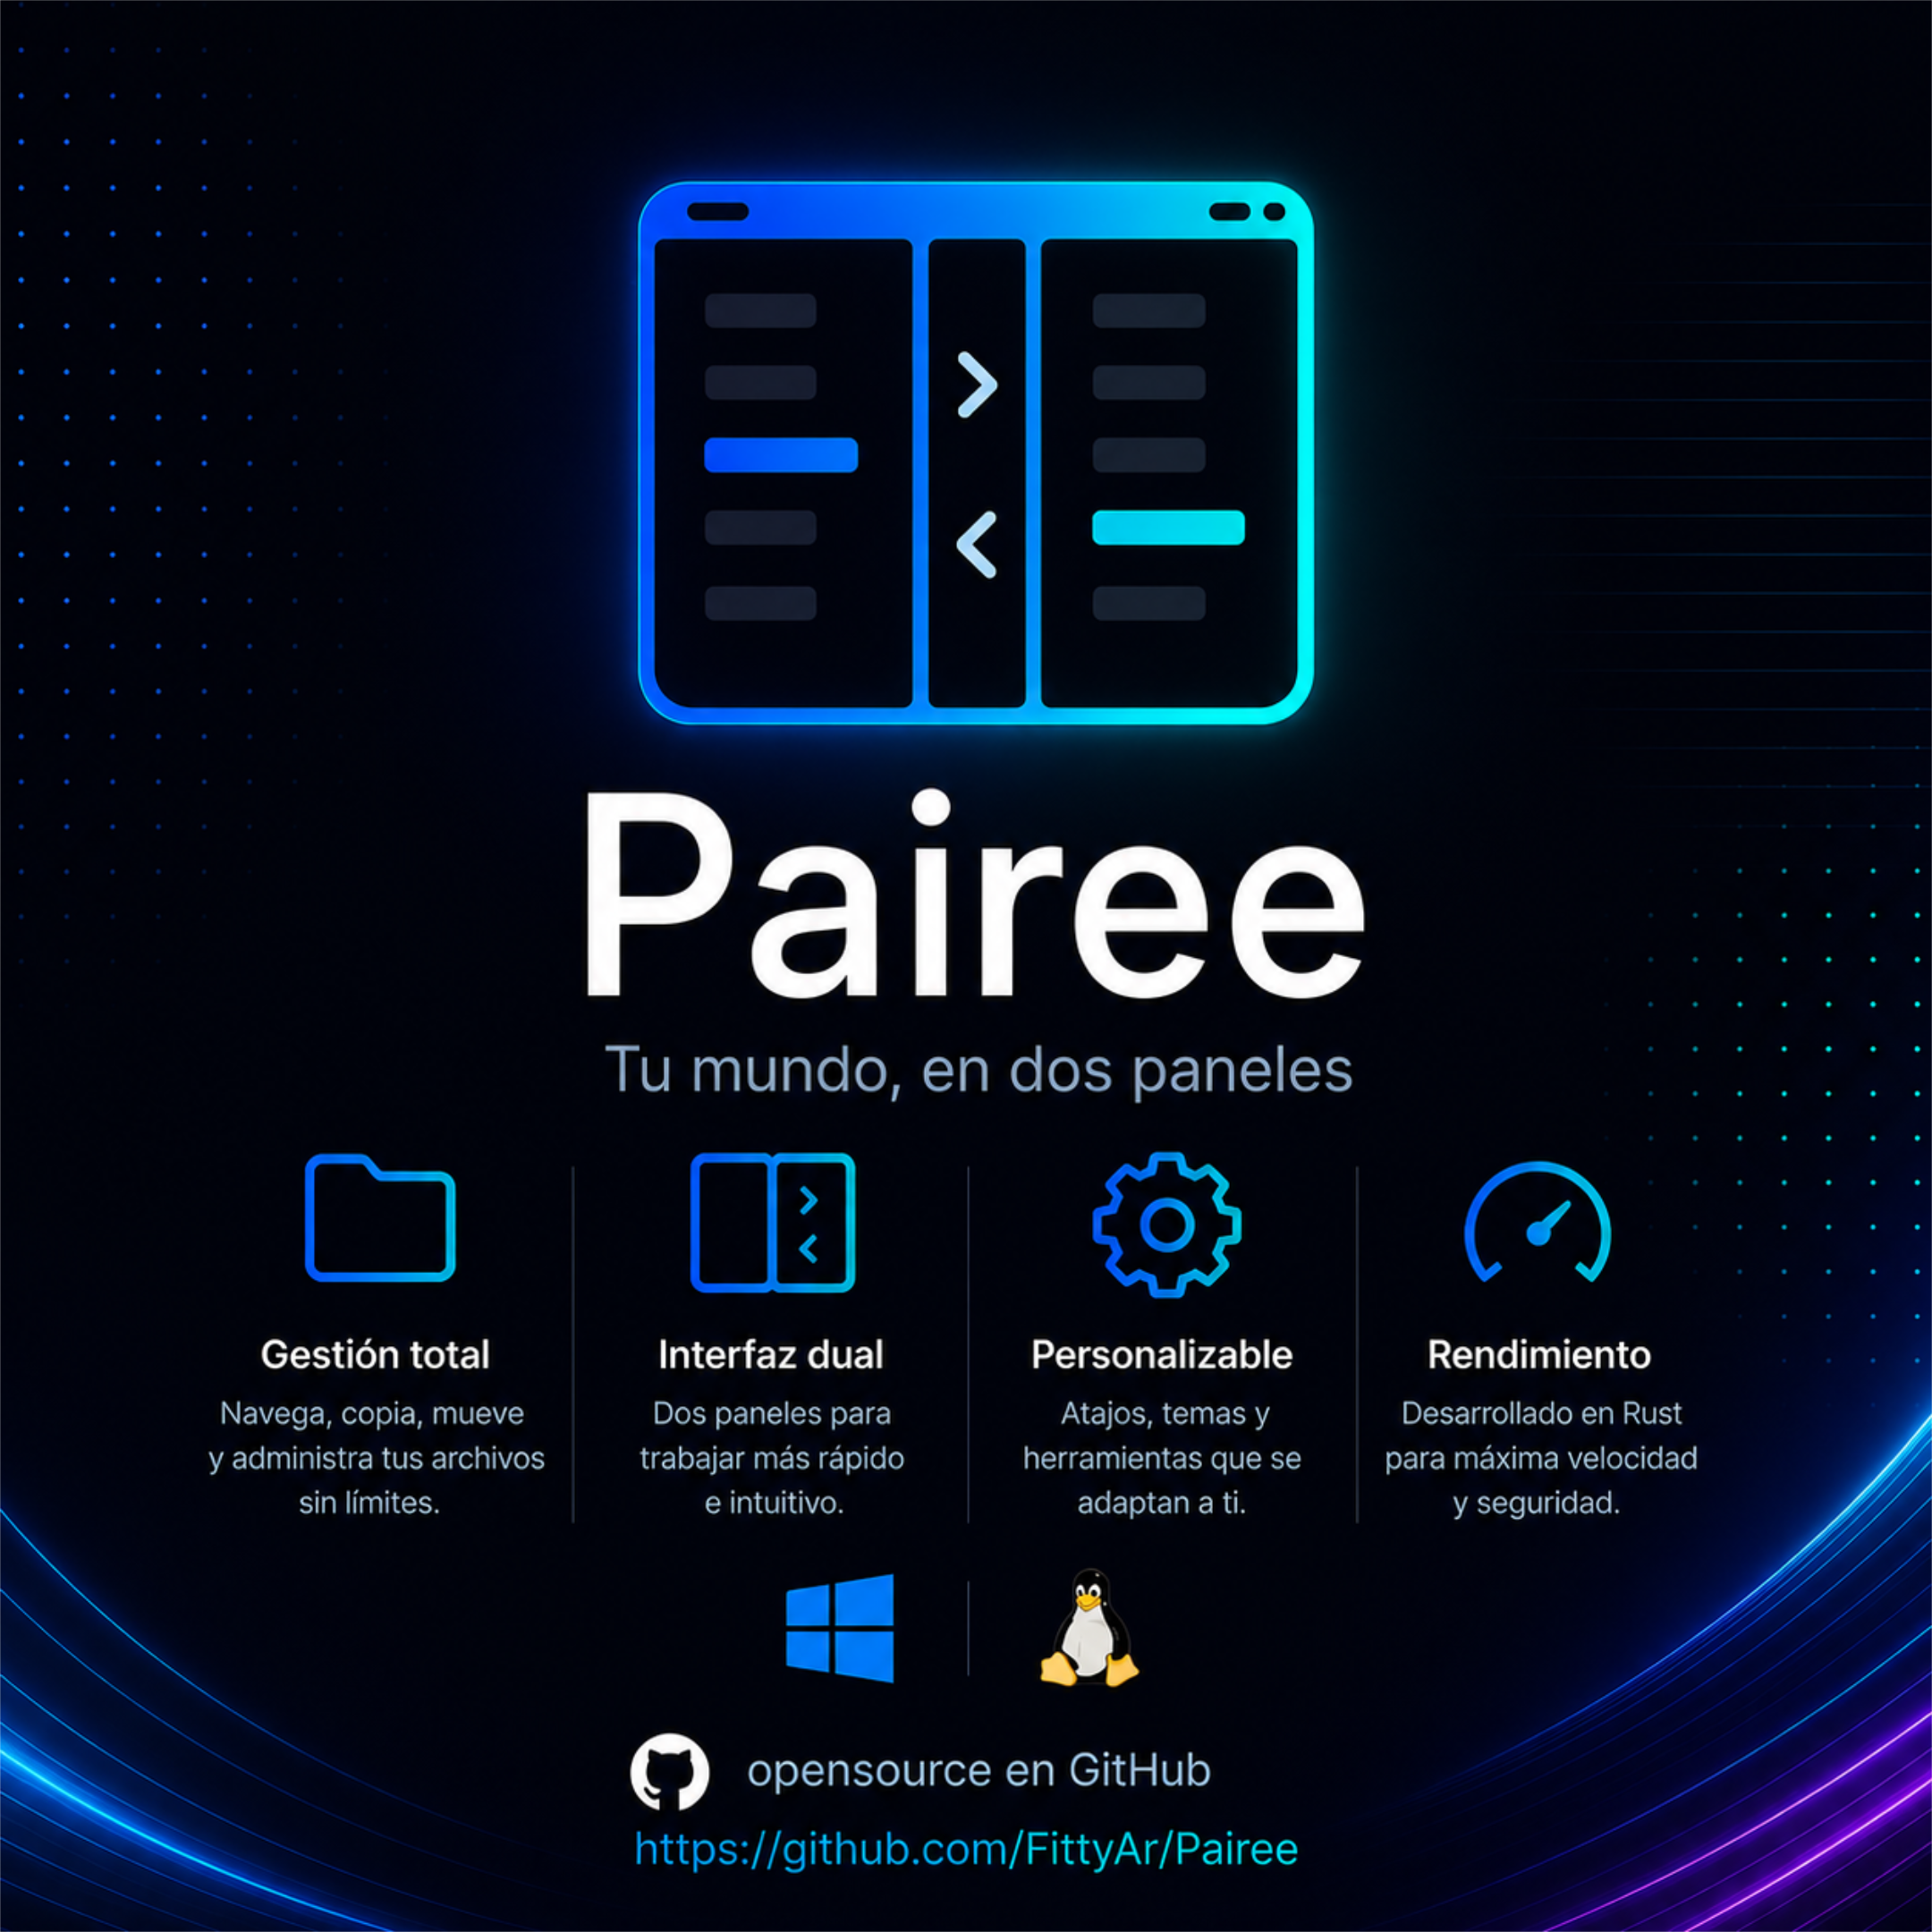
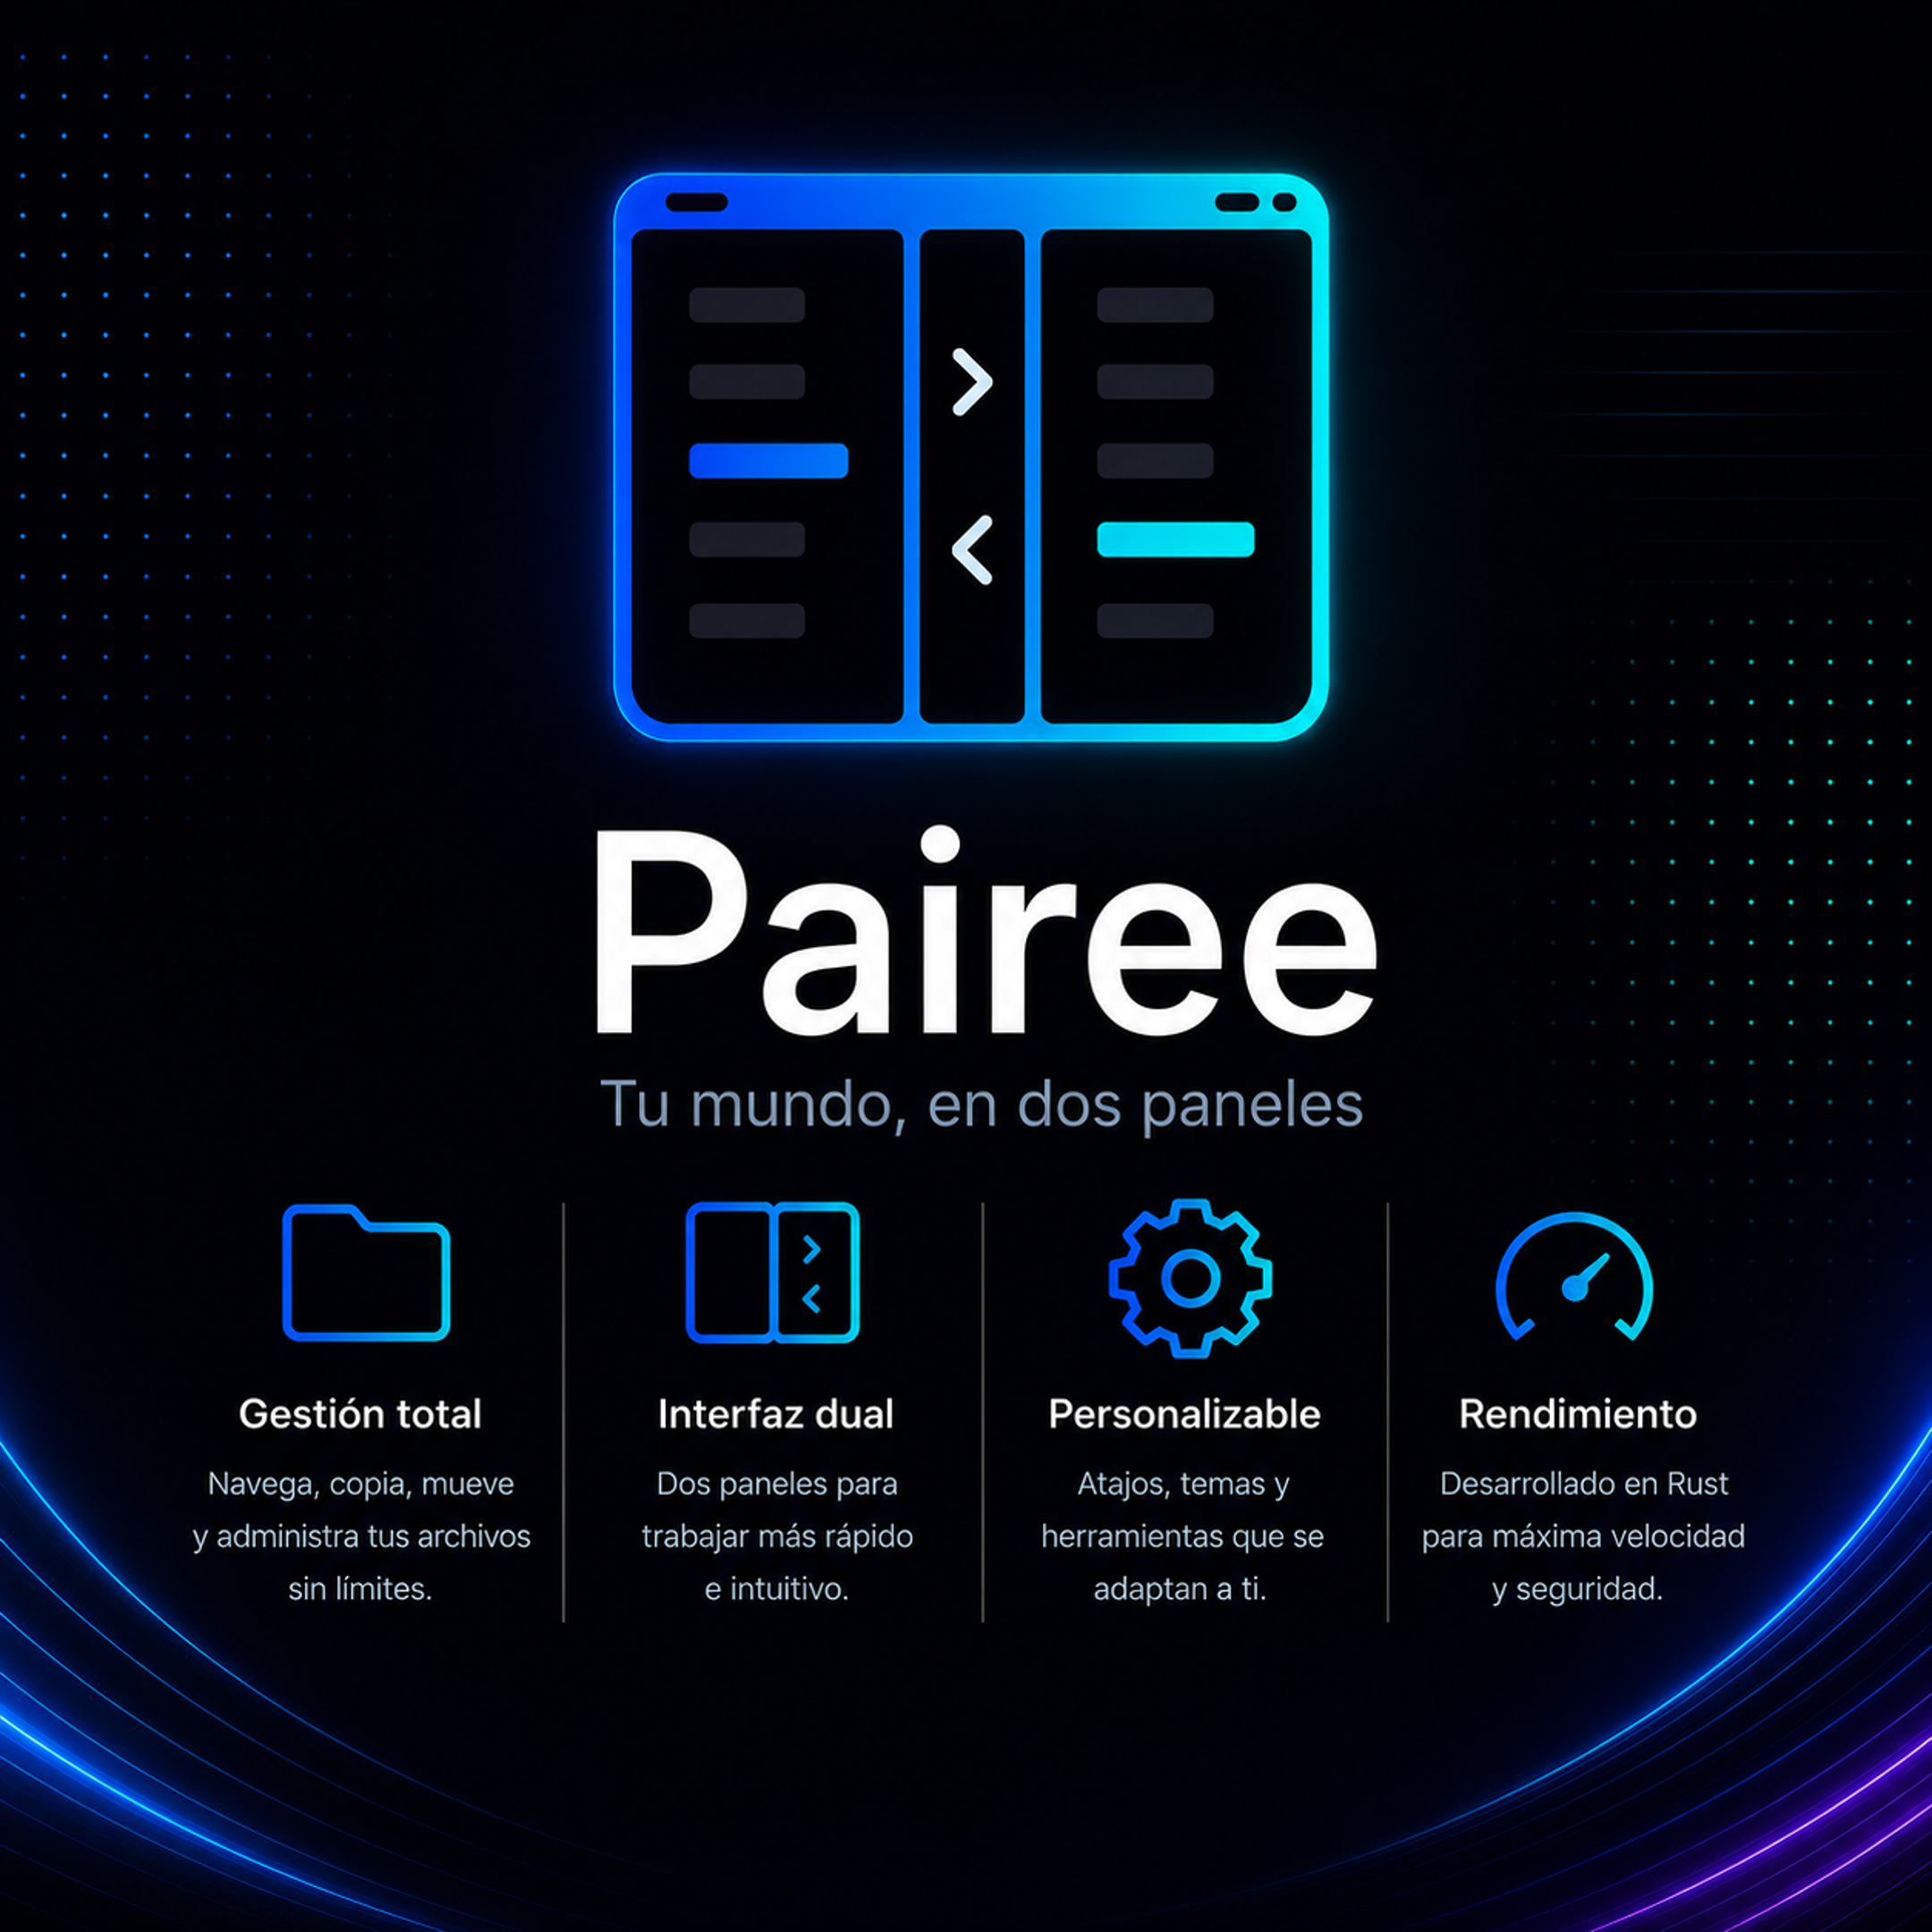
feat: add Spanish translation support and include new gallery assets in project documentation

diff --git a/index.html b/index.html
@@ -175,38 +175,26 @@
 
         <div class="gallery-container">
           <div class="gallery-display">
-            <!-- Slides will be injected or controlled by JS -->
+            <!-- Slides controlled by JS -->
             <div class="gallery-slide active" data-index="0">
-              <img src="assets/Captura de pantalla_20260629_083335.png" data-i18n-alt="gallery_alt0"
+              <img src="assets/Screen1.png" data-i18n-alt="gallery_alt0"
                 alt="Panel Dual Principal" />
             </div>
             <div class="gallery-slide" data-index="1">
-              <img src="assets/Captura de pantalla_20260629_083400.png" data-i18n-alt="gallery_alt1"
-                alt="Operaciones Asíncronas" />
+              <img src="assets/Screen2.png" data-i18n-alt="gallery_alt1"
+                alt="Menú de Comandos de Usuario" />
             </div>
             <div class="gallery-slide" data-index="2">
-              <img src="assets/Captura de pantalla_20260629_083412.png" data-i18n-alt="gallery_alt2"
-                alt="Buscador Avanzado" />
+              <img src="assets/Screen3.png" data-i18n-alt="gallery_alt2"
+                alt="Operaciones Asíncronas" />
             </div>
             <div class="gallery-slide" data-index="3">
-              <img src="assets/Captura de pantalla_20260629_083422.png" data-i18n-alt="gallery_alt3"
-                alt="Comparación de Directorios" />
+              <img src="assets/Screen4.png" data-i18n-alt="gallery_alt3"
+                alt="Gestor de Transferencias" />
             </div>
             <div class="gallery-slide" data-index="4">
-              <img src="assets/Captura de pantalla_20260629_083437.png" data-i18n-alt="gallery_alt4"
-                alt="Administrador de Procesos" />
-            </div>
-            <div class="gallery-slide" data-index="5">
-              <img src="assets/Captura de pantalla_20260629_083508.png" data-i18n-alt="gallery_alt5"
-                alt="Selector de Temas" />
-            </div>
-            <div class="gallery-slide" data-index="6">
-              <img src="assets/Captura de pantalla_20260629_083558.png" data-i18n-alt="gallery_alt6"
-                alt="Visor de Atributos" />
-            </div>
-            <div class="gallery-slide" data-index="7">
-              <img src="assets/Captura de pantalla_20260629_083617.png" data-i18n-alt="gallery_alt7"
-                alt="Auto-actualizaciones" />
+              <img src="assets/Screen5.png" data-i18n-alt="gallery_alt4"
+                alt="Menú Desplegable Superior" />
             </div>
 
             <div class="gallery-nav">
@@ -221,36 +209,24 @@
 
           <div class="gallery-thumbnails" id="gallery-thumbnails">
             <div class="gallery-thumb active" data-index="0">
-              <img src="assets/Captura de pantalla_20260629_083335.png" data-i18n-alt="gallery_thumb0"
+              <img src="assets/Screen1.png" data-i18n-alt="gallery_thumb0"
                 alt="Vista previa 1" />
             </div>
             <div class="gallery-thumb" data-index="1">
-              <img src="assets/Captura de pantalla_20260629_083400.png" data-i18n-alt="gallery_thumb1"
+              <img src="assets/Screen2.png" data-i18n-alt="gallery_thumb1"
                 alt="Vista previa 2" />
             </div>
             <div class="gallery-thumb" data-index="2">
-              <img src="assets/Captura de pantalla_20260629_083412.png" data-i18n-alt="gallery_thumb2"
+              <img src="assets/Screen3.png" data-i18n-alt="gallery_thumb2"
                 alt="Vista previa 3" />
             </div>
             <div class="gallery-thumb" data-index="3">
-              <img src="assets/Captura de pantalla_20260629_083422.png" data-i18n-alt="gallery_thumb3"
+              <img src="assets/Screen4.png" data-i18n-alt="gallery_thumb3"
                 alt="Vista previa 4" />
             </div>
             <div class="gallery-thumb" data-index="4">
-              <img src="assets/Captura de pantalla_20260629_083437.png" data-i18n-alt="gallery_thumb4"
+              <img src="assets/Screen5.png" data-i18n-alt="gallery_thumb4"
                 alt="Vista previa 5" />
-            </div>
-            <div class="gallery-thumb" data-index="5">
-              <img src="assets/Captura de pantalla_20260629_083508.png" data-i18n-alt="gallery_thumb5"
-                alt="Vista previa 6" />
-            </div>
-            <div class="gallery-thumb" data-index="6">
-              <img src="assets/Captura de pantalla_20260629_083558.png" data-i18n-alt="gallery_thumb6"
-                alt="Vista previa 7" />
-            </div>
-            <div class="gallery-thumb" data-index="7">
-              <img src="assets/Captura de pantalla_20260629_083617.png" data-i18n-alt="gallery_thumb7"
-                alt="Vista previa 8" />
             </div>
           </div>
         </div>

diff --git a/js/translations.js b/js/translations.js
@@ -30,30 +30,21 @@ const translations = {
     gallery_title: "El poder en acción",
     gallery_subtitle: "Explora las capturas de la interfaz y las diferentes utilidades integradas en Pairee.",
     gallery_alt0: "Panel Dual Principal",
-    gallery_alt1: "Operaciones Asíncronas",
-    gallery_alt2: "Buscador Avanzado",
-    gallery_alt3: "Comparación de Directorios",
-    gallery_alt4: "Administrador de Procesos",
-    gallery_alt5: "Selector de Temas",
-    gallery_alt6: "Visor de Atributos",
-    gallery_alt7: "Auto-actualizaciones",
+    gallery_alt1: "Menú de Comandos de Usuario",
+    gallery_alt2: "Operaciones Asíncronas",
+    gallery_alt3: "Gestor de Transferencias",
+    gallery_alt4: "Menú Desplegable Superior",
     gallery_thumb0: "Vista previa 1",
     gallery_thumb1: "Vista previa 2",
     gallery_thumb2: "Vista previa 3",
     gallery_thumb3: "Vista previa 4",
     gallery_thumb4: "Vista previa 5",
-    gallery_thumb5: "Vista previa 6",
-    gallery_thumb6: "Vista previa 7",
-    gallery_thumb7: "Vista previa 8",
     gallery_captions: [
-      "Panel Dual Principal: Navegación clásica estilo Norton Commander.",
-      "Operaciones Asíncronas: Tareas pesadas en segundo plano con hilos independientes (Tokio).",
-      "Buscador Avanzado: Localización instantánea de archivos por nombre y contenido.",
-      "Comparación de Directorios: Herramienta visual de sincronización y diferencias.",
-      "Administrador de Procesos: Monitoreo y control directo del sistema sin salir del gestor.",
-      "Selector de Temas: Cambia colores y personaliza el aspecto de la terminal al instante.",
-      "Visor de Atributos: Detalle exhaustivo de metadatos, tamaño y permisos.",
-      "Auto-actualizaciones: Sistema de distribución seguro mediante firmas SHA-256."
+      "Panel Dual Principal: Navegación clásica de doble panel con información detallada de archivos y accesos directos.",
+      "Menú de Comandos: Acceso directo e intuitivo a filtros, lista de tareas, panel Git y preferencias del sistema.",
+      "Operaciones Asíncronas: Motor de transferencia en segundo plano mediante hilos independientes (Tokio).",
+      "Gestor de Transferencias: Interfaz extendida para monitorear, pausar, reanudar y cancelar tareas de fondo.",
+      "Menú Desplegable Superior: Menú completo de navegación para modos de vista, ordenación y conexiones SSH."
     ],
     install_title: "Instalación al instante",
     install_subtitle: "Puedes descargar y compilar Pairee ejecutando este instalador directo en tu terminal.",
@@ -152,30 +143,21 @@ const translations = {
     gallery_title: "Power in action",
     gallery_subtitle: "Explore UI screenshots and the different built-in utilities in Pairee.",
     gallery_alt0: "Main Dual Pane",
-    gallery_alt1: "Asynchronous Operations",
-    gallery_alt2: "Advanced Search",
-    gallery_alt3: "Directory Comparison",
-    gallery_alt4: "Process Manager",
-    gallery_alt5: "Theme Selector",
-    gallery_alt6: "Attribute Viewer",
-    gallery_alt7: "Auto-updates",
+    gallery_alt1: "User Commands Menu",
+    gallery_alt2: "Asynchronous Operations",
+    gallery_alt3: "Transfer Engine Manager",
+    gallery_alt4: "Top Pull-Down Menu",
     gallery_thumb0: "Preview 1",
     gallery_thumb1: "Preview 2",
     gallery_thumb2: "Preview 3",
     gallery_thumb3: "Preview 4",
     gallery_thumb4: "Preview 5",
-    gallery_thumb5: "Preview 6",
-    gallery_thumb6: "Preview 7",
-    gallery_thumb7: "Preview 8",
     gallery_captions: [
-      "Main Dual Pane: Classic Norton Commander-style navigation.",
-      "Asynchronous Operations: Heavy tasks in the background with independent threads (Tokio).",
-      "Advanced Search: Instant file location by name and content.",
-      "Directory Comparison: Visual tool for synchronization and differences.",
-      "Process Manager: Direct system monitoring and control without leaving the manager.",
-      "Theme Selector: Change colors and customize the terminal look instantly.",
-      "Attribute Viewer: Detailed metadata, size and permissions info.",
-      "Auto-updates: Secure distribution system using SHA-256 signatures."
+      "Main Dual Pane: Classic dual-pane navigation with detailed file information and quick function keys.",
+      "User Commands Menu: Quick and intuitive access to filters, task list, Git panel, and system settings.",
+      "Asynchronous Operations: Background transfer engine running on independent threads (Tokio).",
+      "Transfer Engine Manager: Detailed view to pause, resume, and monitor active background jobs.",
+      "Top Pull-Down Menu: Complete navigation menu for view modes, sorting, and SSH connections."
     ],
     install_title: "Instant installation",
     install_subtitle: "You can download and compile Pairee by running this installer directly in your terminal.",